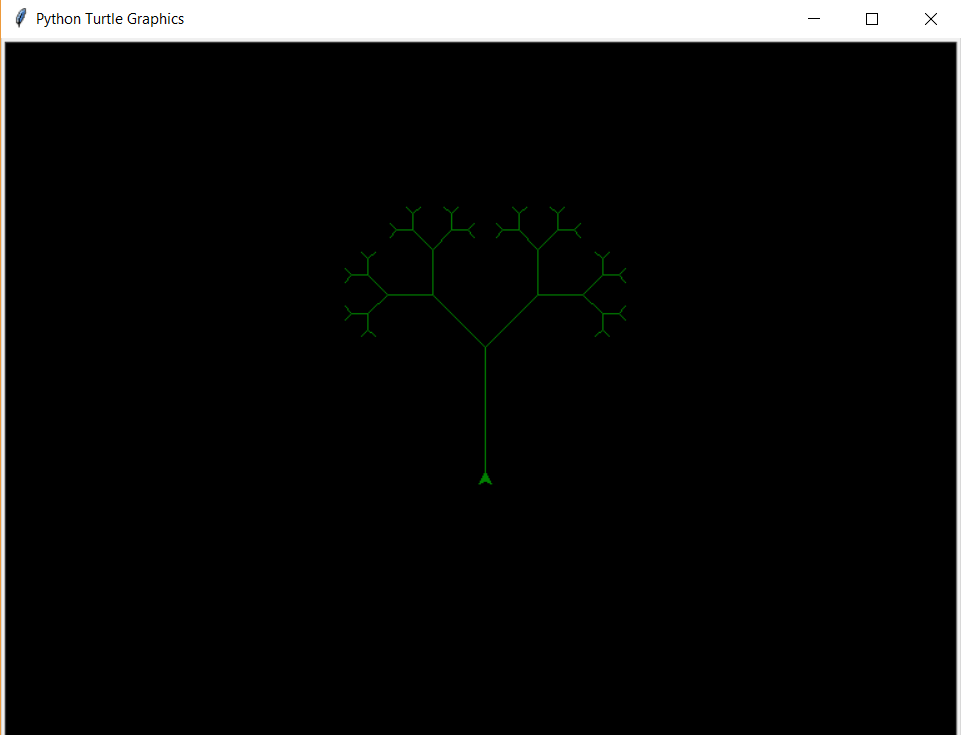
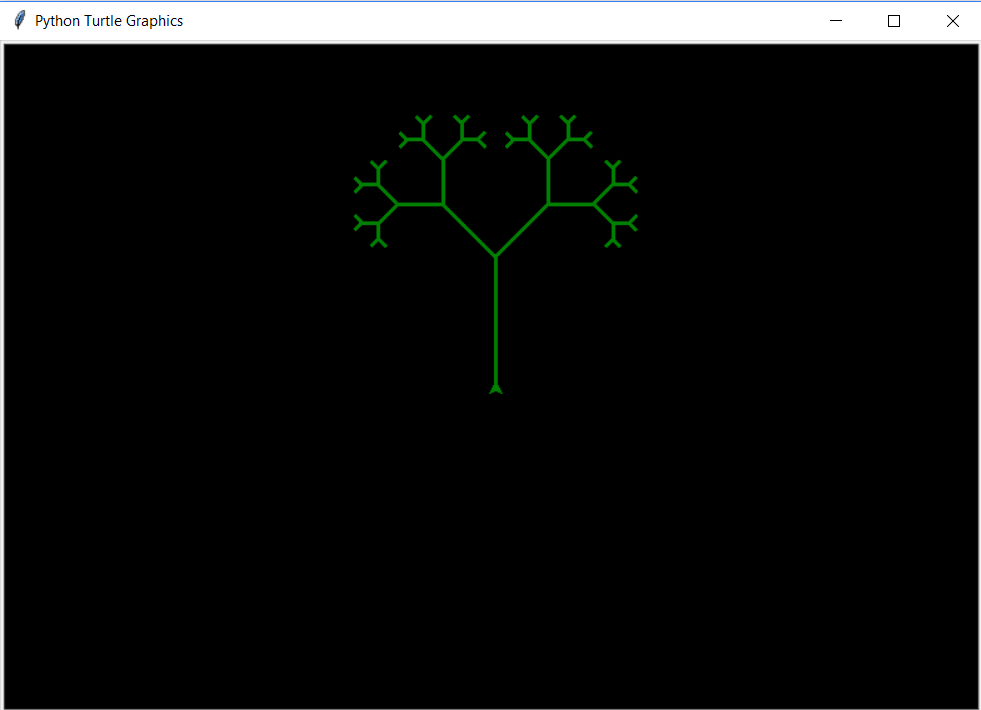
branch pic

diff --git a/docs/CS161/StudentShowcase/Showcase.html b/docs/CS161/StudentShowcase/Showcase.html
@@ -1911,7 +1911,7 @@ body {
 <h2 class="mume-header" id="conclusion">Conclusion</h2>
 
 <p>Students appeared to have a positive experience with Python and the turtle graphics library. They more enthusiastic, more engaged, and more motivated to participate in class and experiment on their own than in previous CS161 guest sessions.</p>
-<p>Many thanks for my CCUT co-professor ShanHong for being so supportive.</p>
+<p>Many thanks to my CCUT co-professor Shan Hong for being so supportive.</p>
 </section><section lineNo="97" class="slide " data-line="97" data-h="17" data-v="0">
 <h1 class="mume-header" id="end">END</h1>
 

diff --git a/docs/CS161/StudentShowcase/Branch.py b/docs/CS161/StudentShowcase/Branch.py
@@ -1,6 +1,7 @@
 import turtle
 turtle.color('green')
 turtle.bgcolor('black')
+turtle.width(3)
 def branch(length,level):
   if level<=0:
     return

diff --git a/docs/CS161/StudentShowcase/Showcase.md b/docs/CS161/StudentShowcase/Showcase.md
@@ -93,7 +93,7 @@ And lastly, this group explored using subroutines to draw curves and made use of
 ## Conclusion
 Students appeared to have a positive experience with Python and the turtle graphics library. They more enthusiastic, more engaged, and more motivated to participate in class and experiment on their own than in previous CS161 guest sessions.
 
-Many thanks for my CCUT co-professor ShanHong for being so supportive.
+Many thanks to my CCUT co-professor Shan Hong for being so supportive.
 
 <!-- slide -->
 # END
